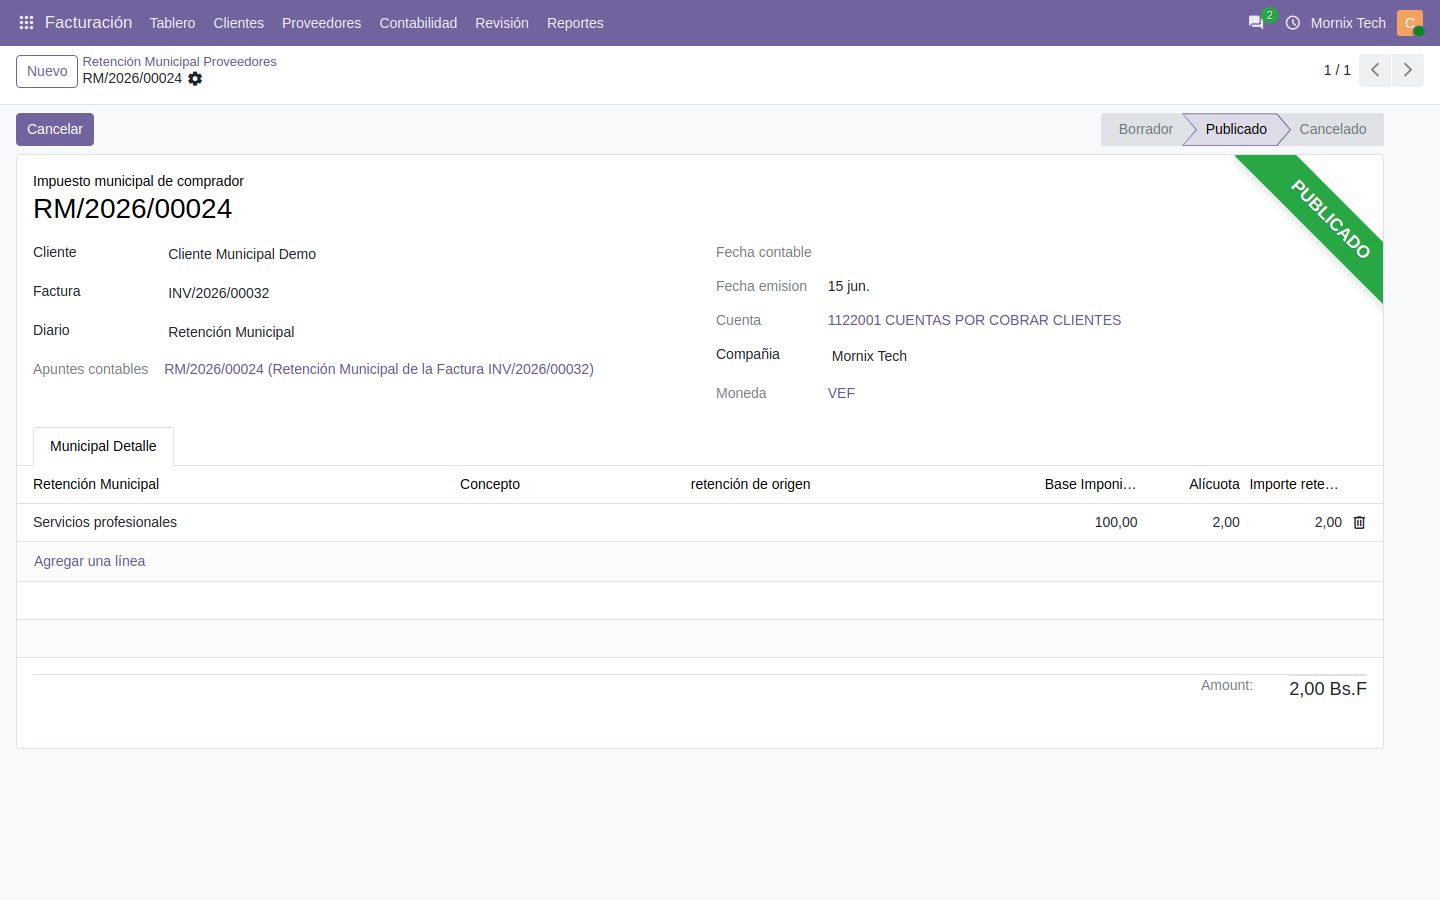
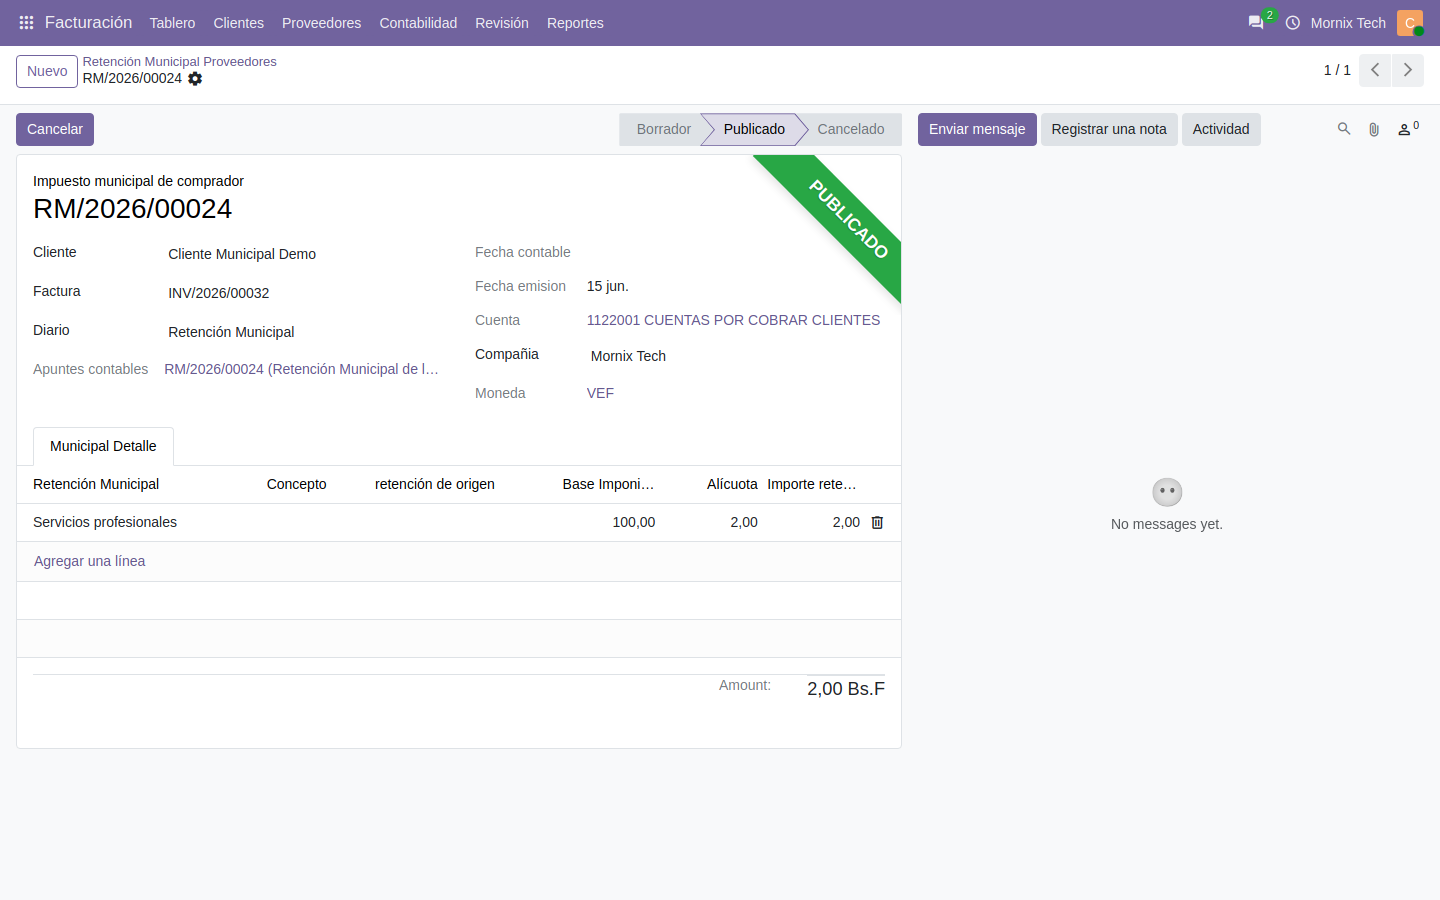
El portal de retenciones, al nivel del de facturas
Cuatro cosas que faltaban, todas señaladas mirando la pantalla:

- **Búsqueda y ordenación.** Barra igual que la de `/my/invoices`: ordenar por
  fecha, comprobante o importe, y buscar por número de comprobante, de factura
  afectada o de control.
- **Factura afectada y número de control**, en el listado y en la vista previa.
  Se leen con `sudo` acotado: el usuario de portal no tiene permiso sobre las
  LÍNEAS del comprobante y la columna salía vacía; darle lectura sobre esos
  modelos completos abriría mucho más de lo necesario para enseñar un número
  que ya está en su propia factura.
- **La página del comprobante hereda `portal.portal_sidebar`**, que es lo que
  aporta migas de pan, flechas de anterior/siguiente y el historial de
  comunicación. Antes era una plantilla suelta sin nada de eso.
- **El giro de carga ya no se queda girando.** No lo oculta ningún JavaScript:
  el `iframe` se pinta encima gracias a `position-relative` en el contenedor y
  en el marco, que era justo lo que le faltaba a mi plantilla.

Y `retention.municipal` no tenía chatter, a diferencia de sus dos hermanas:
sin él no hay trazabilidad de quién confirmó ni hilo en el portal. Se le añadió
`mail.thread`.

362 pruebas en verde, 1140 vistas auditadas. Capturas regeneradas —incluida una
nueva de la vista previa— y documentación publicada.

Claude-Session: https://claude.ai/code/session_01Sgw9BHg9PFf2A9ESMHNkcZ

diff --git a/modulos/l10n_ve_mornix.md b/modulos/l10n_ve_mornix.md
@@ -1136,6 +1136,28 @@ pastel y trazo. Como las entradas de `portal.entry` se declaran con
 `noupdate="1"`, cargarlos en una base existente necesitó migración (1.35.0): el
 XML solo alcanza a las instalaciones nuevas.
 
+#### La página del comprobante hereda `portal.portal_sidebar`
+
+Que es lo que aporta migas de pan, flechas de anterior/siguiente y el hilo de
+mensajes: la misma página que el proveedor ya conoce de sus facturas. La
+primera versión era una plantilla suelta y le faltaba todo eso.
+
+De paso, dos detalles:
+
+- **El giro de carga no lo oculta ningún JavaScript.** El `iframe` se pinta
+  encima gracias a `position-relative` en el contenedor y en el propio marco.
+  Sin eso —que es lo que tenía— el indicador se quedaba girando para siempre
+  sobre el comprobante ya cargado.
+- **`retention.municipal` no tenía chatter**, a diferencia de sus dos
+  hermanas: sin él no hay trazabilidad de quién la confirmó ni hilo de
+  mensajes en el portal. Se le añadió `mail.thread`.
+
+El listado enseña la factura afectada y su número de control, y se puede
+buscar por los tres números. Se leen con `sudo` acotado: el usuario de portal
+no tiene permiso sobre las **líneas** del comprobante, así que la columna salía
+vacía; darle lectura sobre esos modelos completos abriría mucho más de lo
+necesario para enseñar un número que ya está en su propia factura.
+
 #### Dos cosas que costaron encontrar
 
 **Las tarjetas de «Mi cuenta» ya no se declaran en la plantilla.** v20 las

diff --git a/funcional/12-el-portal-del-proveedor.md b/funcional/12-el-portal-del-proveedor.md
@@ -13,11 +13,19 @@ En **Mi cuenta** aparecen tres apartados, cada uno con su contador:
 
 ![«Mi cuenta» del proveedor, con los apartados de retenciones](img/portal-mi-cuenta.png)
 
-Cada uno lista sus comprobantes con fecha, importe retenido y estado. Al pulsar
-uno se abre la vista previa, con el comprobante tal como sale impreso y botones
-para descargarlo o imprimirlo.
+Cada uno lista sus comprobantes con **la factura afectada, su número de
+control**, la fecha, el importe retenido y el estado. Arriba hay ordenación
+—por fecha, comprobante o importe— y un buscador que encuentra por número de
+comprobante, de factura o de control.
+
+Al pulsar uno se abre la vista previa: el comprobante tal como sale impreso,
+con los datos y los botones de descarga a un lado, migas para volver al
+listado, flechas para pasar al siguiente y el historial de comunicación al
+pie. La misma página que ya conoce de sus facturas.
 
 ![El listado de retenciones de IVA como lo ve el proveedor](img/portal-retenciones-iva.png)
+
+![La vista previa del comprobante, con sus datos al lado y el informe incrustado](img/portal-retencion-detalle.png)
 
 ![Recorrido: el proveedor entra, abre sus retenciones y ve un comprobante](media/recorrido-portal-proveedor.webm)
 
